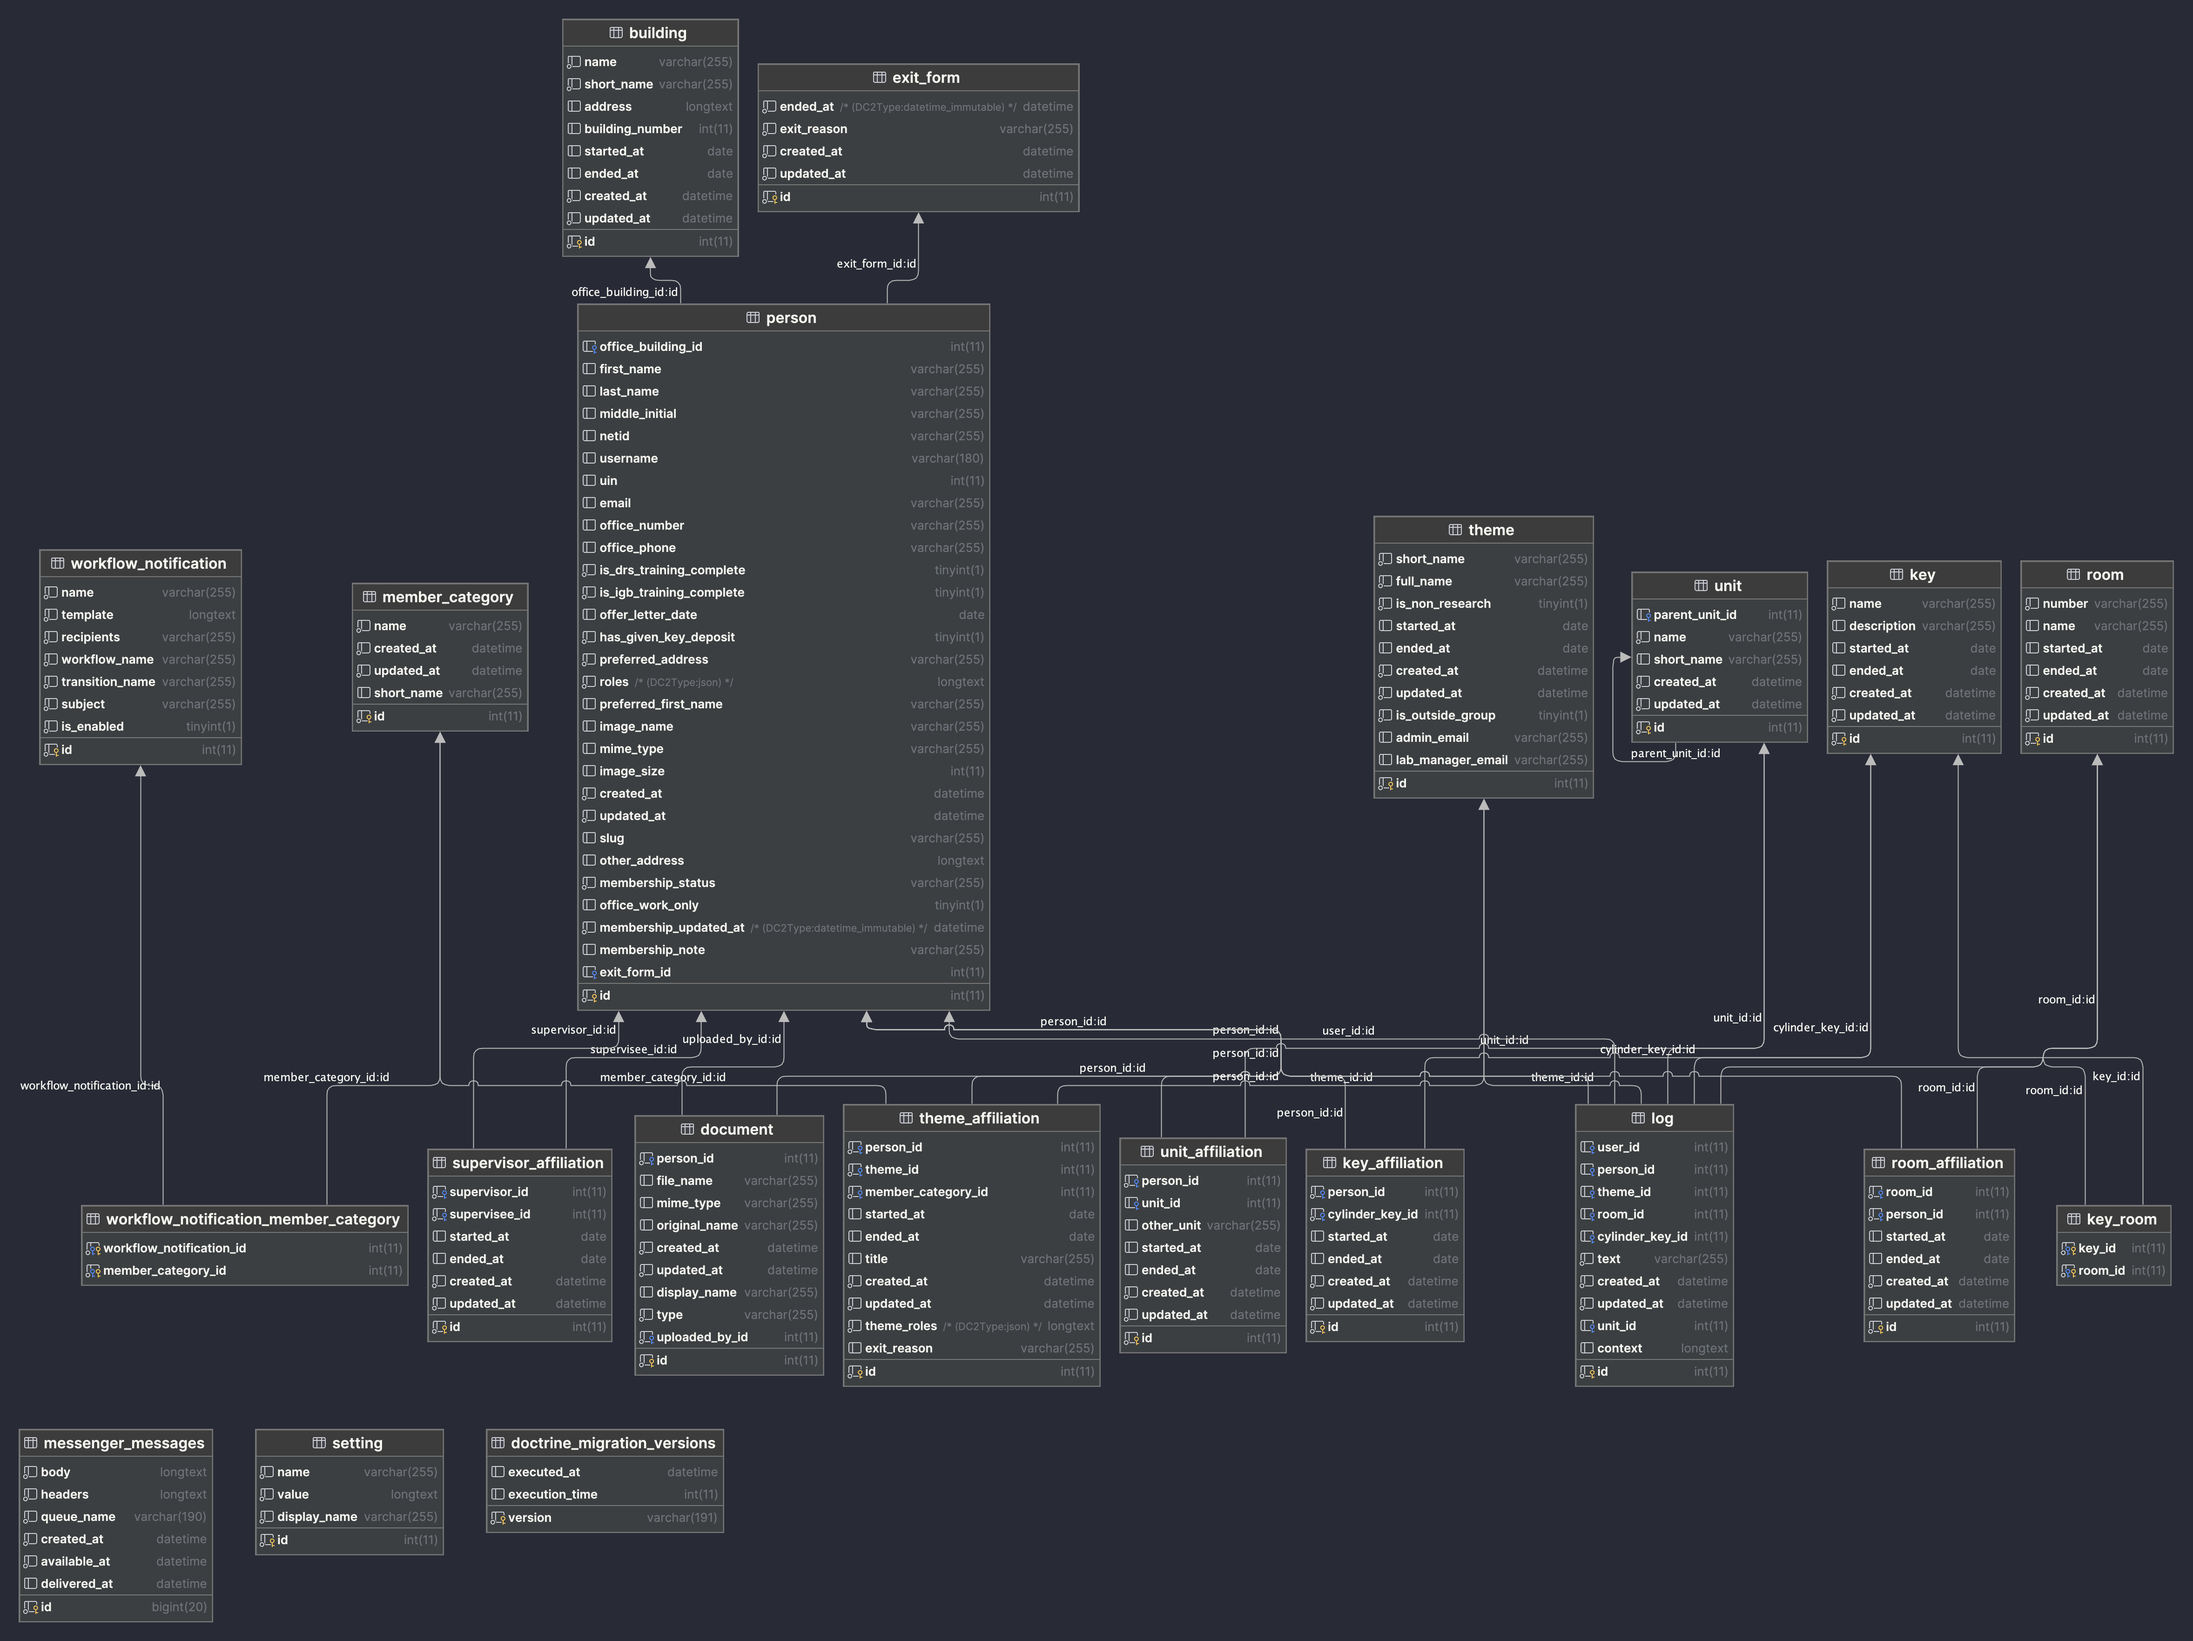
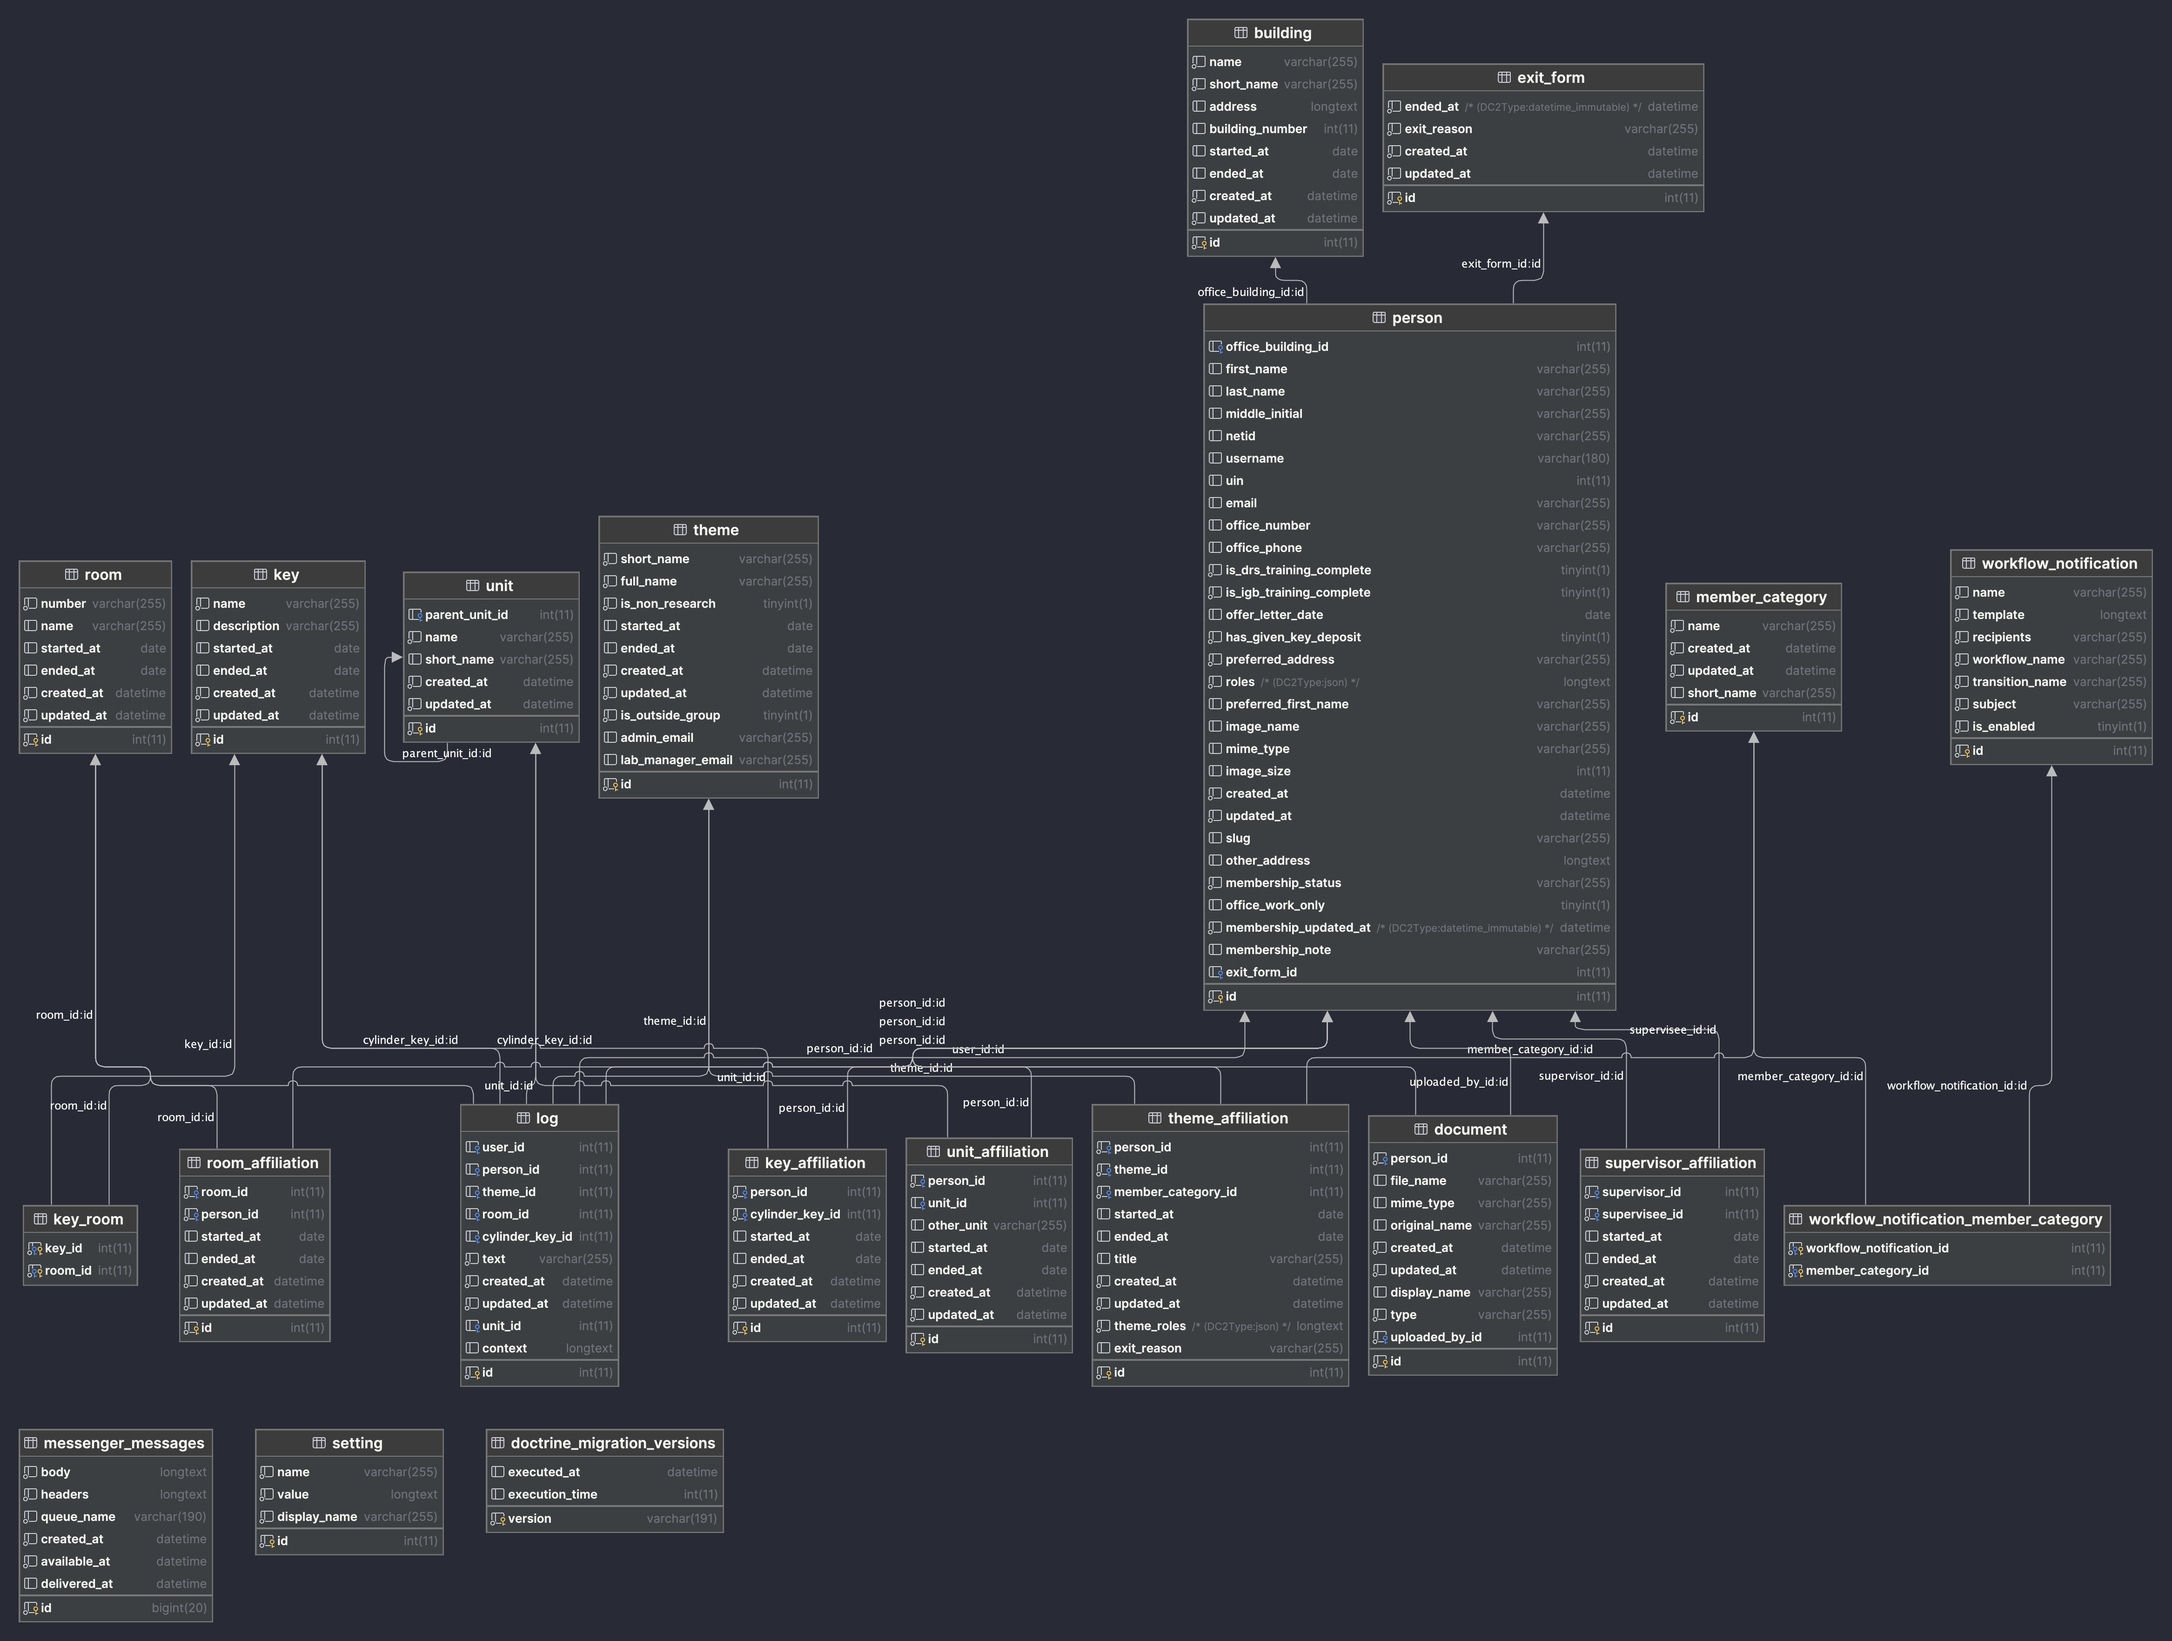
Remove training attributes from Person

diff --git a/src/Repository/SettingRepository.php b/src/Repository/SettingRepository.php
@@ -4,11 +4,6 @@
  * All rights reserved.
  */
 
-*
- * Copyright (c) 2023 University of Illinois Board of Trustees.
- * All rights reserved.
- */
-
 namespace App\Repository;
 
 use App\Entity\Setting;
@@ -48,28 +43,28 @@ class SettingRepository extends ServiceEntityRepository
         }
     }
 
-//    /**
-//     * @return Setting[] Returns an array of Setting objects
-//     */
-//    public function findByExampleField($value): array
-//    {
-//        return $this->createQueryBuilder('s')
-//            ->andWhere('s.exampleField = :val')
-//            ->setParameter('val', $value)
-//            ->orderBy('s.id', 'ASC')
-//            ->setMaxResults(10)
-//            ->getQuery()
-//            ->getResult()
-//        ;
-//    }
+    //    /**
+    //     * @return Setting[] Returns an array of Setting objects
+    //     */
+    //    public function findByExampleField($value): array
+    //    {
+    //        return $this->createQueryBuilder('s')
+    //            ->andWhere('s.exampleField = :val')
+    //            ->setParameter('val', $value)
+    //            ->orderBy('s.id', 'ASC')
+    //            ->setMaxResults(10)
+    //            ->getQuery()
+    //            ->getResult()
+    //        ;
+    //    }
 
-//    public function findOneBySomeField($value): ?Setting
-//    {
-//        return $this->createQueryBuilder('s')
-//            ->andWhere('s.exampleField = :val')
-//            ->setParameter('val', $value)
-//            ->getQuery()
-//            ->getOneOrNullResult()
-//        ;
-//    }
+    //    public function findOneBySomeField($value): ?Setting
+    //    {
+    //        return $this->createQueryBuilder('s')
+    //            ->andWhere('s.exampleField = :val')
+    //            ->setParameter('val', $value)
+    //            ->getQuery()
+    //            ->getOneOrNullResult()
+    //        ;
+    //    }
 }

diff --git a/src/Entity/Person.php b/src/Entity/Person.php
@@ -36,9 +36,9 @@ class Person implements UserInterface, PasswordAuthenticatedUserInterface, Seria
 {
     use TimestampableEntity;
 
-    const USER_ROLES = [
+    public const USER_ROLES = [
         'CONNECT Admin' => 'ROLE_ADMIN',
-//        'Key Manager' => 'ROLE_KEY_MANAGER',
+        //        'Key Manager' => 'ROLE_KEY_MANAGER',
         'Certificate Manager' => 'ROLE_CERTIFICATE_MANAGER',
     ];
 
@@ -92,16 +92,6 @@ class Person implements UserInterface, PasswordAuthenticatedUserInterface, Seria
     #[Loggable]
     #[Groups(['log:person'])]
     private ?string $officePhone = null;
-
-    #[ORM\Column(type: 'boolean')]
-    #[Loggable(displayName: 'DRS training')]
-    #[Groups(['log:person'])]
-    private bool $isDrsTrainingComplete = false;
-
-    #[ORM\Column(type: 'boolean')]
-    #[Loggable(displayName: 'IGB training')]
-    #[Groups(['log:person'])]
-    private bool $isIgbTrainingComplete = false;
 
     #[ORM\Column(type: 'date', nullable: true)]
     #[Loggable]
@@ -392,30 +382,6 @@ class Person implements UserInterface, PasswordAuthenticatedUserInterface, Seria
     public function setOfficePhone(?string $officePhone): self
     {
         $this->officePhone = $officePhone;
-
-        return $this;
-    }
-
-    public function getIsDrsTrainingComplete(): ?bool
-    {
-        return $this->isDrsTrainingComplete;
-    }
-
-    public function setIsDrsTrainingComplete(bool $isDrsTrainingComplete): self
-    {
-        $this->isDrsTrainingComplete = $isDrsTrainingComplete;
-
-        return $this;
-    }
-
-    public function getIsIgbTrainingComplete(): ?bool
-    {
-        return $this->isIgbTrainingComplete;
-    }
-
-    public function setIsIgbTrainingComplete(bool $isIgbTrainingComplete): self
-    {
-        $this->isIgbTrainingComplete = $isIgbTrainingComplete;
 
         return $this;
     }

diff --git a/migrations/Version20230403205202.php b/migrations/Version20230403205202.php
@@ -1,0 +1,31 @@
+<?php
+
+declare(strict_types=1);
+
+namespace DoctrineMigrations;
+
+use Doctrine\DBAL\Schema\Schema;
+use Doctrine\Migrations\AbstractMigration;
+
+/**
+ * Auto-generated Migration: Please modify to your needs!
+ */
+final class Version20230403205202 extends AbstractMigration
+{
+    public function getDescription(): string
+    {
+        return '';
+    }
+
+    public function up(Schema $schema): void
+    {
+        // this up() migration is auto-generated, please modify it to your needs
+        $this->addSql('ALTER TABLE person DROP is_drs_training_complete, DROP is_igb_training_complete');
+    }
+
+    public function down(Schema $schema): void
+    {
+        // this down() migration is auto-generated, please modify it to your needs
+        $this->addSql('ALTER TABLE person ADD is_drs_training_complete TINYINT(1) NOT NULL, ADD is_igb_training_complete TINYINT(1) NOT NULL');
+    }
+}
